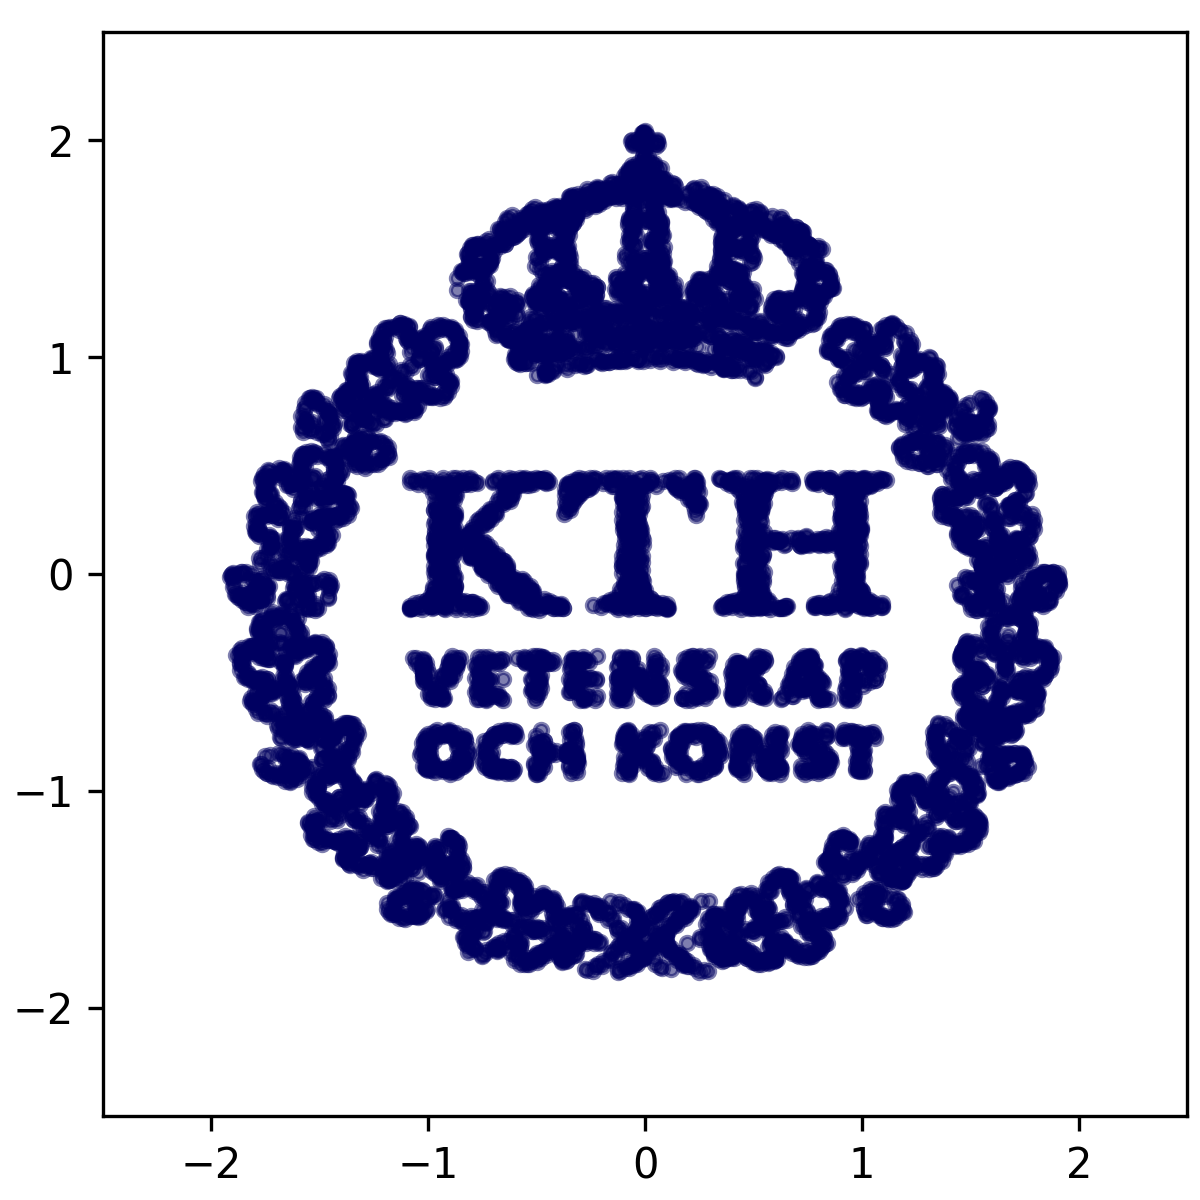
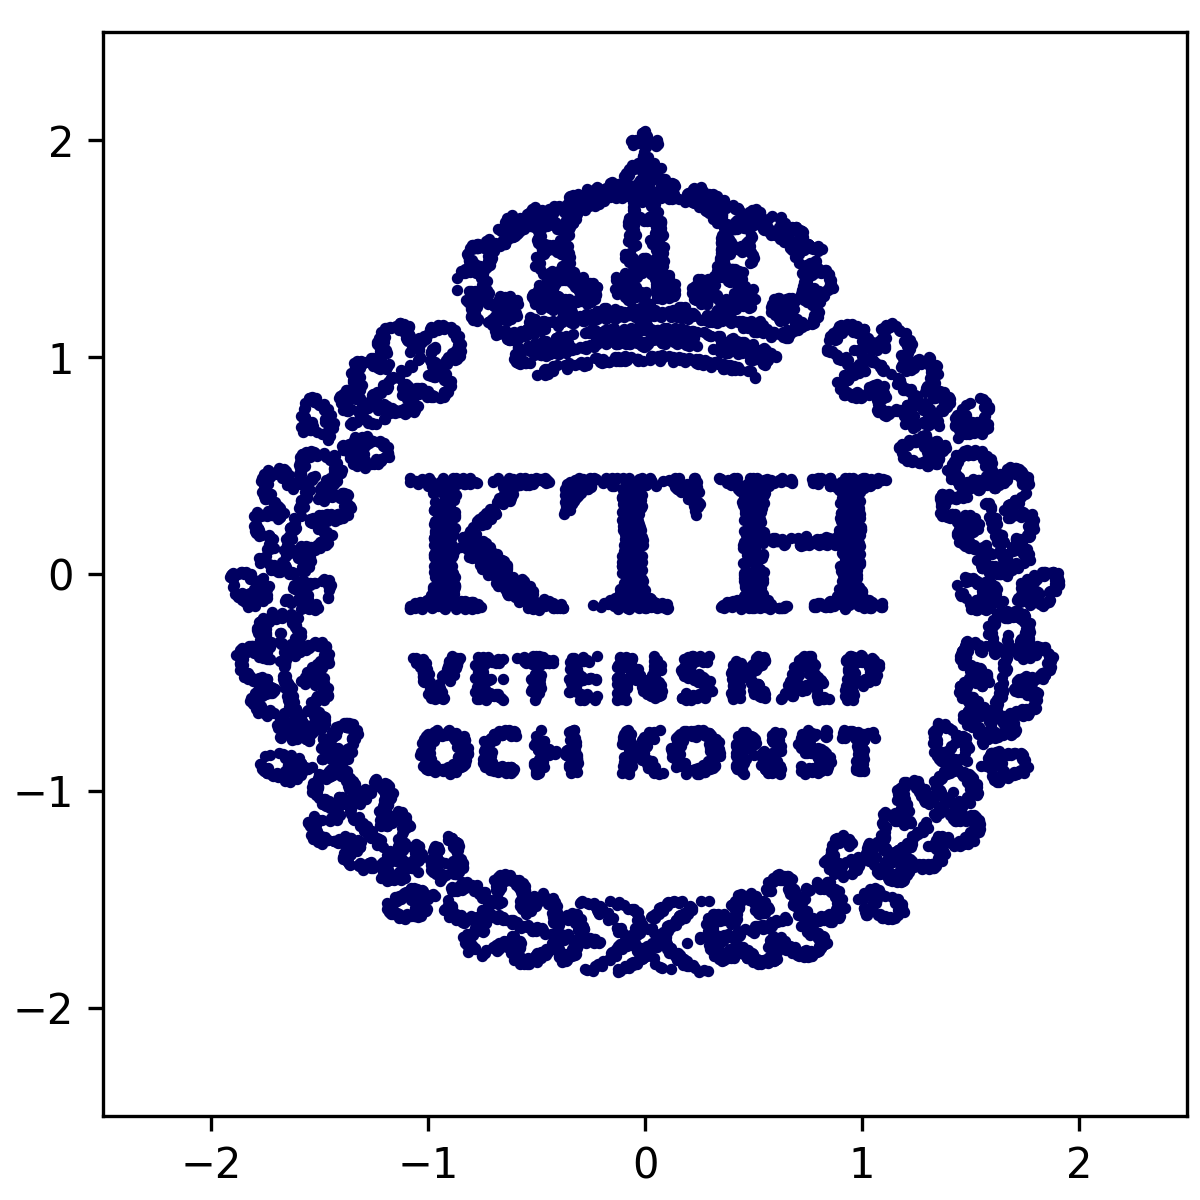
update plot

Changed region(s): [[0.185, 0.0925, 0.8942, 0.8325]]

diff --git a/kth_dataset/kth_dataset.py b/kth_dataset/kth_dataset.py
@@ -58,7 +58,7 @@ if __name__ == "__main__":
     with writer.saving(fig, "kth_scatter.gif", dpi=300):
         for i in range(0, 10_000, 50):
             ax.clear()
-            ax.scatter(x[:i, 0], x[:i, 1], s=10, alpha=0.5, color="#000061")
+            ax.scatter(x[:i, 0], x[:i, 1], s=3, color="#000061")
             ax.set_xlim(-2.5, 2.5)
             ax.set_ylim(-2.5, 2.5)
             ax.set_aspect("equal")
